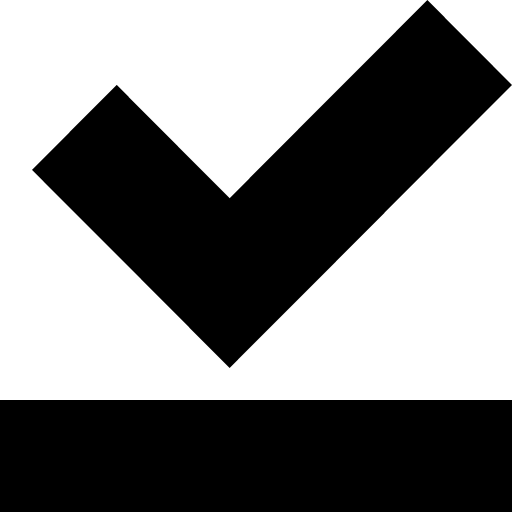
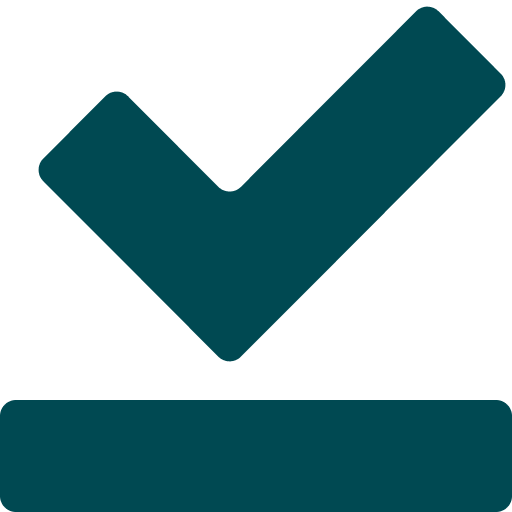
Set up PWA

diff --git a/next.config.ts b/next.config.ts
@@ -4,6 +4,44 @@ const nextConfig: NextConfig = {
   images: {
     domains: ['taskkeeper.pockethost.io'],
   },
+  async headers() {
+    return [
+      {
+        source: '/(.*)',
+        headers: [
+          {
+            key: 'X-Content-Type-Options',
+            value: 'nosniff',
+          },
+          {
+            key: 'X-Frame-Options',
+            value: 'DENY',
+          },
+          {
+            key: 'Referrer-Policy',
+            value: 'strict-origin-when-cross-origin',
+          },
+        ],
+      },
+      {
+        source: '/sw.js',
+        headers: [
+          {
+            key: 'Content-Type',
+            value: 'application/javascript; charset=utf-8',
+          },
+          {
+            key: 'Cache-Control',
+            value: 'no-cache, no-store, must-revalidate',
+          },
+          {
+            key: 'Content-Security-Policy',
+            value: "default-src 'self'; script-src 'self'",
+          },
+        ],
+      },
+    ];
+  },
 };
 
 export default nextConfig;

diff --git a/src/app/manifest.ts b/src/app/manifest.ts
@@ -1,0 +1,27 @@
+import type { MetadataRoute } from 'next';
+
+export default function manifest(): MetadataRoute.Manifest {
+  return {
+    name: 'Taskkeeper',
+    short_name: 'Taskkeeper',
+    description: "Know what you're owe.",
+    start_url: '/',
+    display: 'standalone',
+    background_color: '#004952',
+    theme_color: '#f7f6f7',
+    icons: [
+      {
+        src: '/icons/web-app-manifest-192x192.png',
+        sizes: '192x192',
+        type: 'image/png',
+        purpose: 'maskable',
+      },
+      {
+        src: '/icons/web-app-manifest-512x512.png',
+        sizes: '512x512',
+        type: 'image/png',
+        purpose: 'maskable',
+      },
+    ],
+  };
+}
